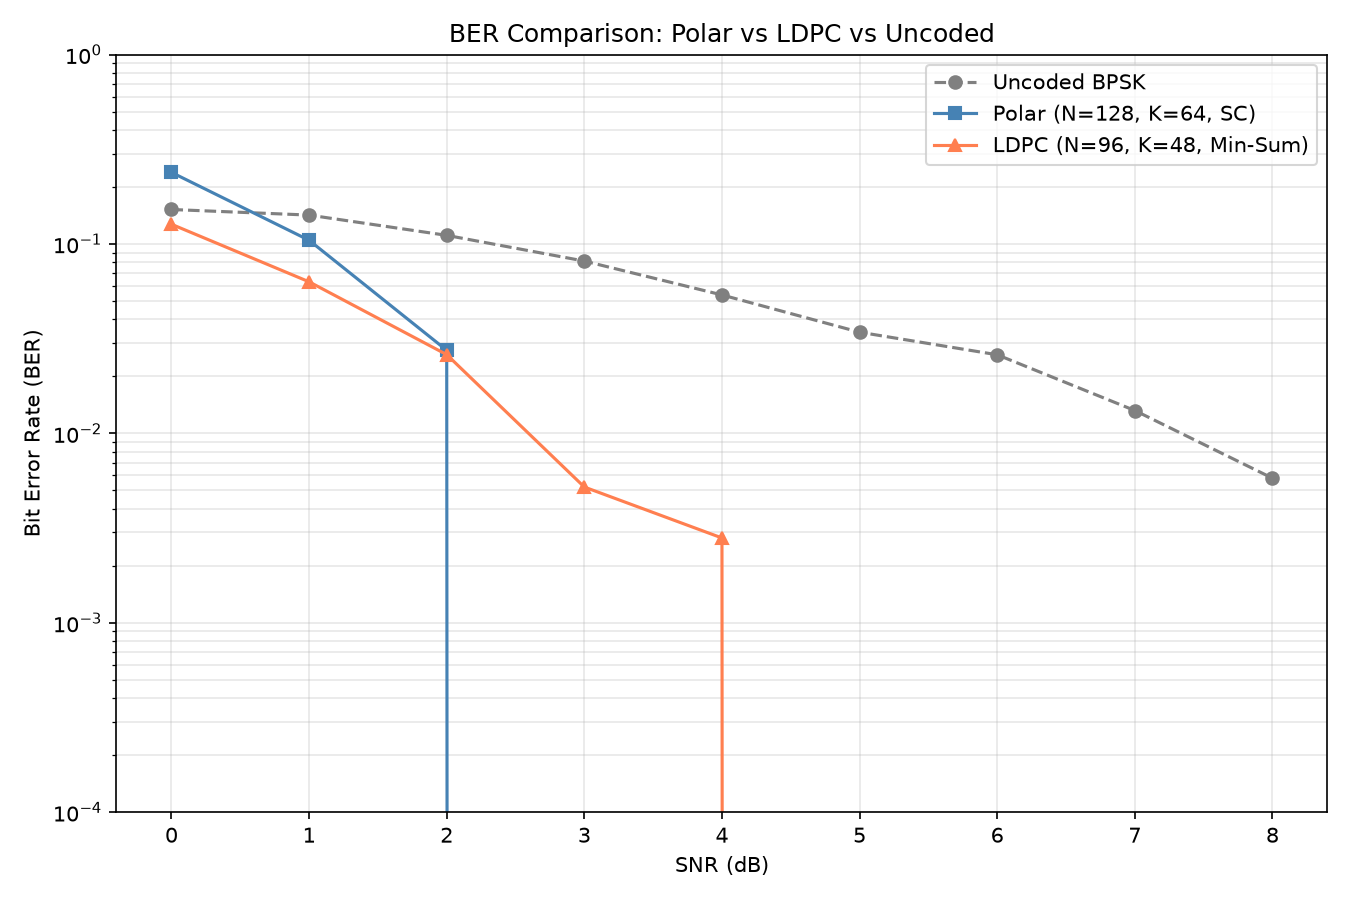
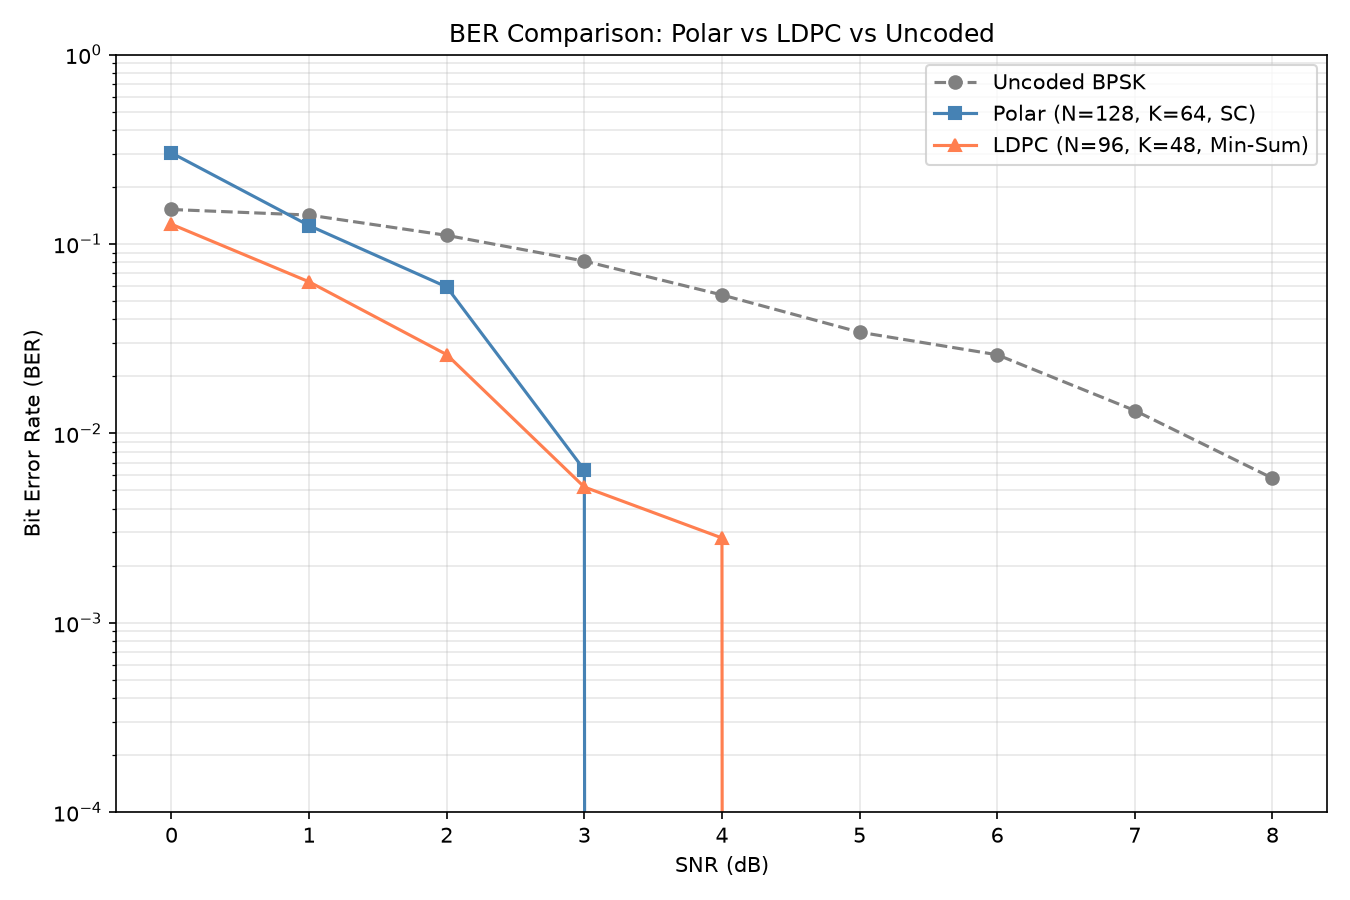
feat(phase1): Polar PW sequence + CRC-6/11/24A/B/C (SC baseline preserved)

diff --git a/src/simulation/polar.py b/src/simulation/polar.py
@@ -49,40 +49,30 @@ def polar_transform(u: np.ndarray) -> np.ndarray:
 
 def polar_encode(info_bits: np.ndarray, N: int,
                  design_snr_db: float = 0.0,
-                 crc_type: str = "CRC11") -> tuple:
-    """Polar 编码 (含 CRC 辅助, 3GPP NR 风格)。
+                 crc_type: str = None) -> tuple:
+    """Polar 编码。
 
     Args:
-        info_bits: K 个信息比特
-        N: 码长 (2 的幂)
-        design_snr_db: 保留参数 (PW 序列不用)
-        crc_type: CRC 类型, 默认 CRC11 (3GPP NR 小 K 用)
-
-    Returns:
-        (codeword, frozen_mask, crc_type): 码字 + 冻结位掩码 + CRC 类型
+        crc_type: None = 无 CRC (SC 用); "CRC11" 等 = 加 CRC (SCL 用)
     """
-    from src.simulation.crc import crc_encode, CRC_POLYNOMIALS
     from src.simulation.polar_sequence import get_frozen_set
 
     n = int(np.log2(N))
-    assert 2**n == N, f"N={N} 必须是 2 的幂"
-
+    assert 2**n == N
     K = len(info_bits)
-    crc_len, _ = CRC_POLYNOMIALS[crc_type]
 
-    # 信息比特 + CRC 位
-    bits_with_crc = crc_encode(info_bits, crc_type)   # 长度 K + crc_len
-    K_with_crc = len(bits_with_crc)
+    if crc_type is None:
+        bits_payload = info_bits
+    else:
+        from src.simulation.crc import crc_encode
+        bits_payload = crc_encode(info_bits, crc_type)
 
-    assert K_with_crc <= N, f"K + CRC = {K_with_crc} 超过 N = {N}"
+    K_payload = len(bits_payload)
+    frozen_mask = get_frozen_set(N, K_payload)
 
-    # 用 PW 序列选冻结位
-    frozen_mask = get_frozen_set(N, K_with_crc)
-
-    # 放比特到非冻结位置
     u = np.zeros(N, dtype=int)
     info_positions = np.where(~frozen_mask)[0]
-    u[info_positions[:K_with_crc]] = bits_with_crc
+    u[info_positions[:K_payload]] = bits_payload
 
     x = polar_transform(u)
     return x, frozen_mask, crc_type
@@ -134,34 +124,21 @@ def _sc_recursive(llr: np.ndarray, frozen: np.ndarray) -> np.ndarray:
 
 def polar_decode(llr: np.ndarray, frozen_mask: np.ndarray,
                  info_bit_count: int,
-                 crc_type: str = "CRC11",
+                 crc_type: str = None,
                  use_sc: bool = True) -> np.ndarray:
-    """Polar SC 译码 (含 CRC 校验)。
-
-    Args:
-        llr: 码字级 LLR
-        frozen_mask: 冻结位标志
-        info_bit_count: 原始信息比特数 (不含 CRC)
-        crc_type: CRC 类型
-        use_sc: True 用 SC 译码; (SCL 留待 Phase 2)
-
-    Returns:
-        译码后的信息比特 (不含 CRC)
-    """
-    from src.simulation.crc import crc_check, remove_crc, CRC_POLYNOMIALS
+    """Polar SC 译码。"""
+    from src.simulation.crc import remove_crc, CRC_POLYNOMIALS
 
     llr = np.asarray(llr, dtype=float)
     frozen_mask = np.asarray(frozen_mask, dtype=bool)
 
-    # SC 译码得到 u_hat
     u_hat = _sc_recursive(llr, frozen_mask)
-
-    # 提取非冻结位的比特
     info_positions = np.where(~frozen_mask)[0]
+
+    if crc_type is None:
+        return u_hat[info_positions[:info_bit_count]]
+
     crc_len, _ = CRC_POLYNOMIALS[crc_type]
     K_with_crc = info_bit_count + crc_len
-
     bits_with_crc = u_hat[info_positions[:K_with_crc]]
-
-    # 去 CRC
     return remove_crc(bits_with_crc, crc_type)[:info_bit_count]

diff --git a/tasks/task2_polar_ldpc.py b/tasks/task2_polar_ldpc.py
@@ -33,10 +33,9 @@ def simulate_polar(K: int, N: int, snr_range: list,
         total_bits = 0
         for _ in range(n_blocks):
             info = rng.integers(0, 2, size=K)
-            codeword, frozen, crc_type = polar_encode(info, N, crc_type="CRC11")
-            # 保存 crc_type 供译码用
+            codeword, frozen, _ = polar_encode(info, N, crc_type=None)
             llr = _bpsk_awgn_llr(codeword, snr, rng)
-            decoded = polar_decode(llr, frozen, K, crc_type=crc_type)
+            decoded = polar_decode(llr, frozen, K, crc_type=None)
             if len(decoded) < K:
                 total_err += K
             else:
